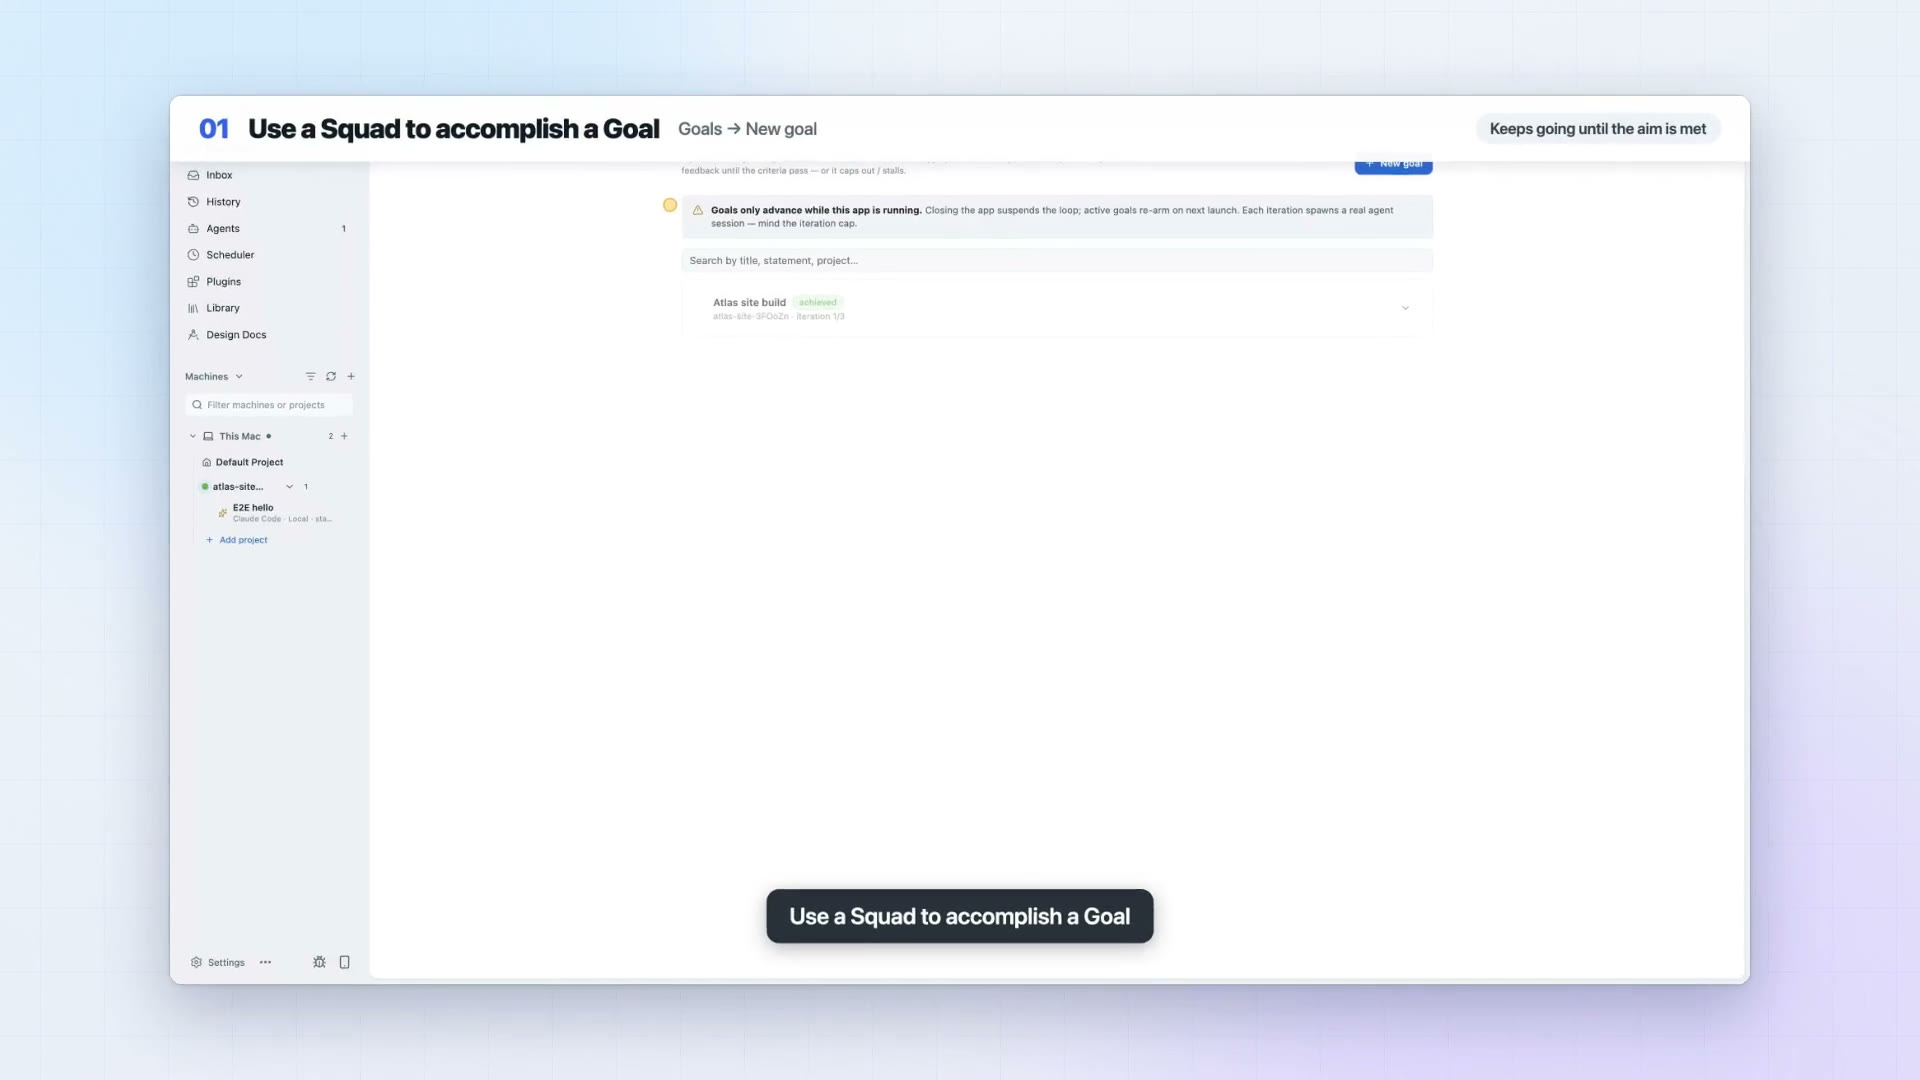
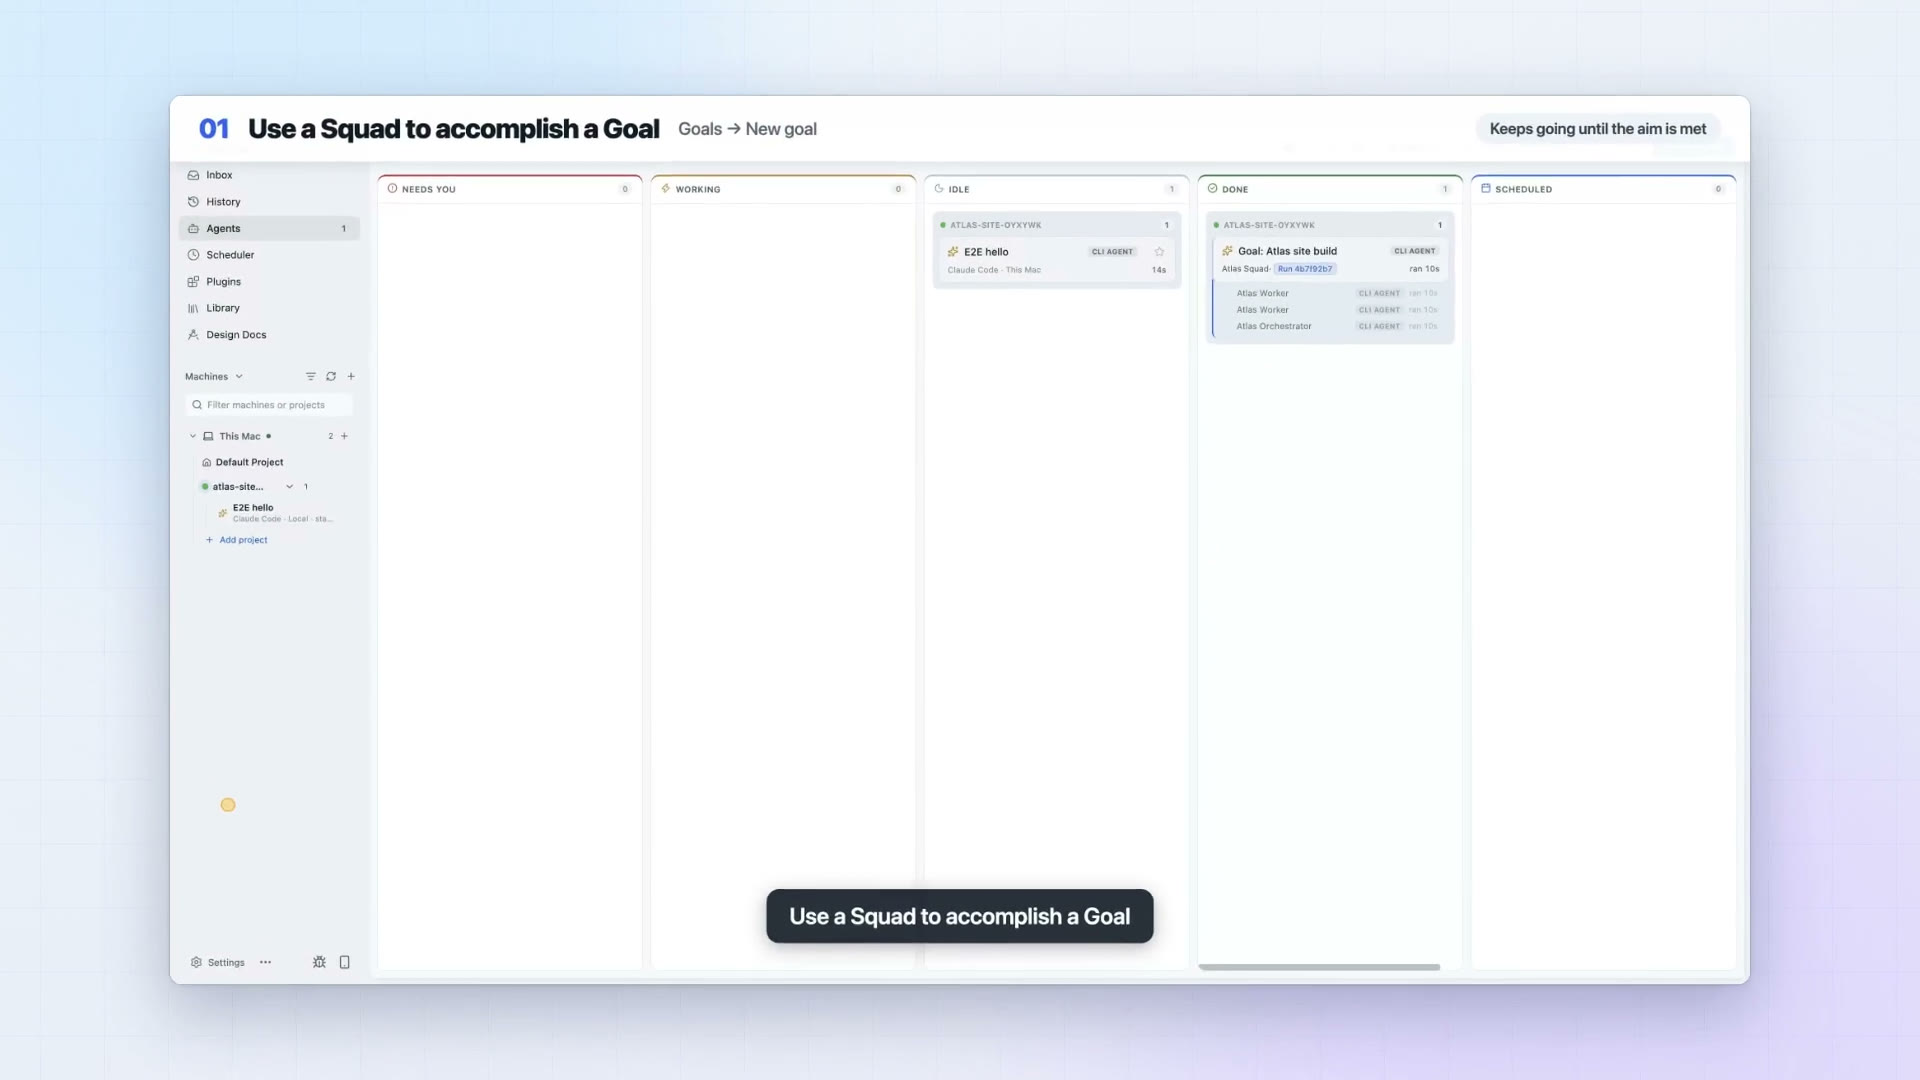
fix: address PR review (watchdog ordering, render/card hardening, dimension bounds, video 8 Goals enablement)

diff --git a/e2e/demo-squad-guide-8.spec.ts b/e2e/demo-squad-guide-8.spec.ts
@@ -76,12 +76,24 @@ test('demo: run a Goal as a Squad', async ({ app }) => {
     await page.evaluate((id) => window.cc.goals.setStatus(id, 'active'), seededId);
     await expect.poll(() => page.evaluate(async (id) => (await window.cc.goals.list()).find((g) => g.id === id)?.status, seededId), { timeout: 240_000, intervals: [2_000] }).toMatch(/achieved|exhausted|escalated/);
 
+    // Goals are off by default: switch them off here so the video can show turning them on.
+    await page.evaluate(() => window.cc.config.set({ goalsEnabled: false }));
+    await page.addStyleTag({ content: '.settings-panel { zoom: 1.3; }' });
+
     const demo = await createDemoVideo(page);
     await demo.flash();
 
     // --- 01 A Goal keeps going ---
     await demo.section({ number: 1, title: 'Use a Squad to accomplish a Goal', subtitle: 'Goals → New goal', hint: 'Keeps going until the aim is met' });
     await demo.say('goal');
+    await tap(page, page.getByRole('link', { name: 'Settings', exact: true }));
+    await tap(page, page.getByTestId('settings-nav-experimental'));
+    const goalsSetting = page.getByRole('switch', { name: 'Goals', exact: true });
+    await goalsSetting.evaluate((el) => el.scrollIntoView({ block: 'center', behavior: 'smooth' }));
+    await page.waitForTimeout(900);
+    await tap(page, goalsSetting);
+    await expect(goalsSetting).toHaveAttribute('aria-checked', 'true');
+    await page.waitForTimeout(1200);
     await go('/goals');
     await tap(page, page.getByRole('button', { name: 'New goal' }).first());
     const form = page.getByRole('dialog', { name: 'New goal' });

diff --git a/e2e/demo-squad-guide-5.spec.ts b/e2e/demo-squad-guide-5.spec.ts
@@ -35,7 +35,8 @@ const PLAN_MD = [
 
 // The agent's scripted reply; each prompt gets its own, written just before it is sent. A match is a phrase
 // only that request contains, so the Squad's later reports to the thread never replay it.
-const scriptDir = mkdtempSync(join(tmpdir(), 'zcc-demo-guide5-script-'));
+// Created only when recording: the spec module is also loaded (and skipped) during collection and in workers.
+const scriptDir = process.env.ZCC_E2E_RECORD_VIDEO ? mkdtempSync(join(tmpdir(), 'zcc-demo-guide5-script-')) : join(tmpdir(), 'zcc-demo-guide5-unused');
 const script = join(scriptDir, 'script.json');
 const reply = (match: string, steps: unknown[]) => writeFileSync(script, JSON.stringify({ match, steps }));
 
@@ -108,7 +109,8 @@ test('demo: start a Squad from a conversation', async ({ app }) => {
     await expect(page.getByTestId('model-reasoning-provider-acp-opencode')).toHaveAttribute('aria-selected', 'true');
     await page.keyboard.press('Escape');
     // Escape closes the popover; clicking the backdrop closes the launcher.
-    await page.mouse.click(1700, 900);
+    const viewport = await page.evaluate(() => ({ width: innerWidth, height: innerHeight }));
+    await page.mouse.click(viewport.width - 20, viewport.height - 20);
     await expect(setup).toBeHidden({ timeout: 10_000 });
     await page.evaluate((to) => { history.pushState({}, '', to); dispatchEvent(new PopStateEvent('popstate')); }, home);
     await page.getByTestId('nav-agents').click();

diff --git a/scripts/demo-video-core.test.ts b/scripts/demo-video-core.test.ts
@@ -107,9 +107,20 @@ describe('validateVideoConfig', () => {
     bad.opener = { headline: '', chips: ['a', ''], lines: [{ at: 4, text: 'x' }, { at: 2, text: 'y' }, { at: 20, text: 'z' }], duration: 9, revealAt: 12 };
     bad.closer = { headline: 'x', chips: [], duration: 0, line: 5 };
     const errors = validateVideoConfig(bad).join('\n');
-    for (const part of ['id must', 'title is required', 'even integers', 'fps must', 'opener.headline', 'opener.chips', 'time order', 'after opener.duration', 'revealAt', 'closer.duration', 'closer.line']) {
+    for (const part of ['id must', 'title is required', 'positive even integers', 'fps must', 'opener.headline', 'opener.chips', 'time order', 'after opener.duration', 'revealAt', 'closer.duration', 'closer.line']) {
       expect(errors).toContain(part);
     }
+  });
+  it('requires positive even dimensions within the supported bounds', () => {
+    const check = (width: number, height: number) => validateVideoConfig({ ...valid(), width, height }).some((e) => e.includes('positive even integers'));
+    expect(check(0, 0)).toBe(true);
+    expect(check(-1920, -1080)).toBe(true);
+    expect(check(1920, 0)).toBe(true);
+    expect(check(7682, 1080)).toBe(true);
+    expect(check(1920, 4322)).toBe(true);
+    expect(check(1921, 1080)).toBe(true);
+    expect(check(7680, 4320)).toBe(false);
+    expect(check(2, 2)).toBe(false);
   });
   it('requires an opener and well-formed line list', () => {
     const noOpener: any = valid();

diff --git a/apps/server/src/plugins/plugin-service.failure.test.ts b/apps/server/src/plugins/plugin-service.failure.test.ts
@@ -87,6 +87,20 @@ describe('plugin service responsiveness failures', () => {
     vi.useRealTimers();
   });
 
+  it('keeps a watchdog-stalled plugin required and logs no "unavailable" warning while its retry is pending', async () => {
+    vi.useFakeTimers();
+    const warn = vi.spyOn(console, 'warn').mockImplementation(() => undefined);
+    const { service, plugin } = fixture();
+    const row = await service.install(plugin);
+    state.runtimes[0].options.onFailure(Error('Plugin event loop stopped responding'));
+    await vi.waitFor(() => expect(service.get(row.id)?.status).toBe('degraded'));
+    expect(warn.mock.calls.filter((c) => String(c[0]).includes('failed to activate'))).toHaveLength(0);
+    await vi.advanceTimersByTimeAsync(1_000);
+    await vi.waitFor(() => expect(service.get(row.id)?.status).toBe('running'));
+    expect(warn.mock.calls.filter((c) => String(c[0]).includes('failed to activate'))).toHaveLength(0);
+    vi.useRealTimers();
+  });
+
   it('bounds failed watchdog recovery to three attempts with backoff and allows a manual retry', async () => {
     vi.useFakeTimers();
     const changed = vi.fn();

diff --git a/apps/server/src/plugins/plugin-service.ts b/apps/server/src/plugins/plugin-service.ts
@@ -1667,12 +1667,10 @@ export function createPluginService(opts: PluginServiceOptions): PluginService {
               const degraded = withToolPolicy({ ...row, status: 'degraded' as const, statusDetail: error.message }, declared);
               live.set(row.id, { row: degraded, handle: null, rpc: new Map() });
               await store.upsert(degraded);
+              // Schedule the retry before publishing, so the row is never advertised as terminal while a retry is pending.
+              if (error.message === WATCHDOG_FAILURE_MESSAGE && isCurrent(row.id, epoch)) scheduleWatchdogRecovery(row.id);
               refreshToolPolicyInventory();
               if (!isCurrent(row.id, epoch)) return;
-              if (error.message === WATCHDOG_FAILURE_MESSAGE) {
-                scheduleWatchdogRecovery(row.id);
-                refreshToolPolicyInventory();
-              }
               await emitCapabilities();
               if (!isCurrent(row.id, epoch)) return;
               await emitAppsChanged();

diff --git a/e2e/native-tool-policy-degraded-plugin.spec.ts b/e2e/native-tool-policy-degraded-plugin.spec.ts
@@ -22,6 +22,11 @@ createInterface({input:process.stdin}).on('line', () => {
   n += 1;
   const input = {hook_event_name:'PreToolUse', prompt_id:'prompt-probe', tool_use_id:'call-' + n, tool_name:'Write', tool_input:{path:'marker.txt'}};
   const result = spawnSync('/bin/sh', ['-c', commands[0]], { input:JSON.stringify(input), timeout:6000, stdio:['pipe','pipe','pipe'] });
+  if (result.error || result.signal || result.status !== 0) {
+    writeFileSync('write-result.json', JSON.stringify({decision: 'hook-failed', reason: String(result.error || result.signal || ('exit ' + result.status)) + ' ' + result.stderr.toString().slice(0, 500)}));
+    console.log('POLICY_RESULT');
+    return;
+  }
   const output = result.stdout.toString().trim();
   const parsed = output ? JSON.parse(output).hookSpecificOutput : {};
   writeFileSync('write-result.json', JSON.stringify({decision: parsed.permissionDecision ?? 'no-decision', reason: parsed.permissionDecisionReason ?? ''}));

diff --git a/e2e/sdk/demo-video-core.ts b/e2e/sdk/demo-video-core.ts
@@ -104,7 +104,7 @@ export function validateVideoConfig(raw: unknown): string[] {
   const c = raw as Record<string, any>;
   if (!isText(c.id) || !/^[a-z0-9][a-z0-9-]*$/.test(c.id)) errors.push('id must be a lowercase slug');
   if (!isText(c.title)) errors.push('title is required');
-  if (!Number.isInteger(c.width) || !Number.isInteger(c.height) || c.width % 2 || c.height % 2) errors.push('width/height must be even integers');
+  if (![c.width, c.height].every((n) => Number.isInteger(n) && n > 0 && n % 2 === 0) || c.width > 7680 || c.height > 4320) errors.push('width/height must be positive even integers within 7680x4320');
   if (![30, 60].includes(c.fps)) errors.push('fps must be 30 or 60');
   const card = (name: string, v: any, required: boolean) => {
     if (!v) { if (required) errors.push(`${name} is required`); return false; }

diff --git a/e2e/demo-squad-guide-7.spec.ts b/e2e/demo-squad-guide-7.spec.ts
@@ -54,7 +54,6 @@ test('demo: schedule a Squad', async ({ app }) => {
       document.body.appendChild(dot);
       addEventListener('mousemove', (e) => { dot.style.left = `${e.clientX}px`; dot.style.top = `${e.clientY}px`; }, true);
     });
-    const go = (to: string) => page.evaluate((path) => { history.pushState({}, '', path); dispatchEvent(new PopStateEvent('popstate')); }, to);
 
     // Seed (trimmed away): register the project via the shared owner launch, close the owner, name the Squad.
     await launchJobTeamCliOwner(ctx, { workerQuantity: 2, prompt: 'E2E hello', orchestratorExtra: { deniedTools: ['Write', 'Edit'] } });

diff --git a/e2e/demo-squad-guide-3.spec.ts b/e2e/demo-squad-guide-3.spec.ts
@@ -3,7 +3,7 @@
  * See docs/media/squad-guide-README.md for the record command.
  *
  * No model is called: the Squad's agents are the deterministic fake coordinator
- * (e2e/sdk/harness.ts). The recording shows the launch only; the run itself is video 3.
+ * (e2e/sdk/harness.ts). The recording opens on a run that is waiting on a question, answers it from the Inbox, and reads the result in Squad details.
  */
 import { test, expect } from './fixtures/app.js';
 import { createJobTeamContext, launchJobTeamCliOwner, teardownJobTeam } from './sdk/job-team-scenario.js';

diff --git a/docs/media/squad-guide-tools/card.html b/docs/media/squad-guide-tools/card.html
@@ -75,7 +75,7 @@ const VO = MODE === 'closer'
   : (CARD.lines || []).map((l) => [l.at, 3, l.text]);
 (params.get('vo') || '').split(',').filter(Boolean).forEach((d, i) => { if (VO[i]) VO[i][1] = Number(d); });
 const DURATION = CARD.duration || 8;
-const REVEAL = MODE === 'closer' ? 0 : (CARD.revealAt || DURATION - 3);
+const REVEAL = MODE === 'closer' ? 0 : (CARD.revealAt ?? DURATION - 3);
 window.TIMING = { VO, DURATION, MODE };
 
 // Headline: last word gradient-highlighted.

diff --git a/e2e/demo-squad-guide-4.spec.ts b/e2e/demo-squad-guide-4.spec.ts
@@ -37,7 +37,6 @@ test('demo: pick the right Squad', async ({ app }) => {
     document.body.appendChild(dot);
     addEventListener('mousemove', (e) => { dot.style.left = `${e.clientX}px`; dot.style.top = `${e.clientY}px`; }, true);
   });
-  const beat = (ms: number) => page.waitForTimeout(ms);
 
   await page.getByRole('link', { name: 'Settings', exact: true }).click();
   await page.getByTestId('settings-nav-squads').click();

diff --git a/docs/media/squad-guide-tools/render.py b/docs/media/squad-guide-tools/render.py
@@ -25,15 +25,15 @@ TAIL = 0.6  # silence after the last spoken section line before the closer
 
 
 def validate(cfg, lines):
-    """Return a list of problems with video.json and narration.json (mirrors e2e/sdk/demo-video-core.ts)."""
+    """Return a list of problems with video.json and narration.json (the structural checks of e2e/sdk/demo-video-core.ts; the narration entries are checked only here, and chips only there)."""
     errors = []
     if not re.fullmatch(r'[a-z0-9][a-z0-9-]*', str(cfg.get('id', ''))):
         errors.append('id must be a lowercase slug')
     if not str(cfg.get('title', '')).strip():
         errors.append('title is required')
     w, h = cfg.get('width'), cfg.get('height')
-    if not (isinstance(w, int) and isinstance(h, int) and w % 2 == 0 and h % 2 == 0):
-        errors.append('width/height must be even integers')
+    if not (isinstance(w, int) and isinstance(h, int) and 0 < w <= 7680 and 0 < h <= 4320 and w % 2 == 0 and h % 2 == 0):
+        errors.append('width/height must be positive even integers within 7680x4320')
     if cfg.get('fps') not in (30, 60):
         errors.append('fps must be 30 or 60')
     opener = cfg.get('opener')
@@ -44,14 +44,18 @@ def validate(cfg, lines):
             errors.append('opener.headline is required')
         if not opener.get('duration', 0) > 0:
             errors.append('opener.duration must be positive')
-        ats = [l.get('at', -1) for l in opener.get('lines', [])]
-        if ats != sorted(set(ats)) or any(a < 0 for a in ats):
-            errors.append('opener.lines must be in strict time order')
+        op_lines = opener.get('lines')
+        if not isinstance(op_lines, list) or not op_lines or not all(isinstance(l, dict) and str(l.get('text', '')).strip() and isinstance(l.get('at'), (int, float)) for l in op_lines):
+            errors.append('opener.lines must be a non-empty list of {at, text}')
+        else:
+            ats = [l['at'] for l in op_lines]
+            if ats != sorted(set(ats)) or any(a < 0 for a in ats) or any(a >= opener.get('duration', 0) for a in ats):
+                errors.append('opener.lines must be in strict time order, inside opener.duration')
         if not 0 <= opener.get('revealAt', -1) < opener.get('duration', 0):
             errors.append('opener.revealAt must be inside opener.duration')
     closer = cfg.get('closer')
-    if closer is not None and not closer.get('duration', 0) > 0:
-        errors.append('closer.duration must be positive')
+    if closer is not None and not (isinstance(closer, dict) and closer.get('duration', 0) > 0):
+        errors.append('closer must be an object with a positive duration')
     if not lines:
         errors.append('narration.json is empty')
     for i, entry in enumerate(lines):
@@ -102,7 +106,7 @@ def clip(audio_dir, line):
 def audio(folder, cfg, lines):
     audio_dir = folder / 'audio-neural'
     audio_dir.mkdir(exist_ok=True)
-    extra = [l['text'] for l in cfg['opener']['lines']] + ([cfg['closer']['line']] if cfg.get('closer', {}).get('line') else [])
+    extra = [l['text'] for l in cfg['opener']['lines']] + ([cfg['closer']['line']] if (cfg.get('closer') or {}).get('line') else [])
     for line in extra:
         print(f' card  {duration(clip(audio_dir, line)):5.2f}s  {line}')
     durations = []
@@ -153,9 +157,13 @@ def music(folder, cfg, total, lead):
 def mix(folder, cfg, lines, rec_dir, fps):
     audio_dir, w, h = folder / 'audio-neural', cfg['width'], cfg['height']
     rec_dir = Path(rec_dir)
-    video = next(rec_dir.glob('*.webm'))
+    webms = sorted(rec_dir.glob('*.webm'))
+    if len(webms) != 1:
+        raise SystemExit(f'{rec_dir}: expected exactly one .webm recording, found {len(webms)}; clear the directory and record again')
+    video = webms[0]
     timeline = json.loads((rec_dir / 'timeline.json').read_text())
-    assert [t['text'] for t in timeline] == [e['caption'] for e in lines], 'timeline captions differ from narration.json'
+    if [t['text'] for t in timeline] != [e['caption'] for e in lines]:
+        raise SystemExit('timeline captions differ from narration.json; record again')
     durations = json.loads((audio_dir / 'durations.json').read_text())
     start = flash_end(video)
     opener_cfg, closer_cfg = cfg['opener'], cfg.get('closer')
@@ -202,7 +210,7 @@ def mix(folder, cfg, lines, rec_dir, fps):
         '[0:a]aformat=channel_layouts=stereo,asplit[v][key];[1:a]volume=0.55[m];[m][key]sidechaincompress=threshold=0.03:ratio=6:attack=20:release=400[duck];'
         '[v][duck]amix=inputs=2:duration=first:normalize=0,loudnorm=I=-16:TP=-1.5:LRA=9[a]', '-map', '[a]', '-ar', str(RATE), str(audio_dir / 'mix.wav'))
 
-    end = min(total, cues[-1][1] + 0.9)
+    end = total if closer_cfg and not closer_cfg.get('line') else min(total, cues[-1][1] + 0.9)  # a silent closer keeps its configured duration
     fade = f'fade=t=out:st={end - 0.6:.3f}:d=0.6'
     scale = f'scale={w}:{h}:force_original_aspect_ratio=decrease,pad={w}:{h}:(ow-iw)/2:(oh-ih)/2,fps={fps},format=yuv420p,settb=AVTB,setpts=PTS-STARTPTS'
     graph = f'[1:v]{scale}[rec];[0:v]settb=AVTB[card];[card][rec]xfade=transition=fade:duration={XFADE}:offset={lead}[v1];'
@@ -210,13 +218,11 @@ def mix(folder, cfg, lines, rec_dir, fps):
     if closer:
         graph += f'[3:v]settb=AVTB[end];[v1][end]xfade=transition=fade:duration={XFADE}:offset={closer_at:.3f},{fade}[v]'
         inputs_tail = ['-i', str(audio_dir / 'mix.wav'), '-i', str(closer)]
-        audio_idx = '2:a'
     else:
         graph += f'[v1]{fade}[v]'
         inputs_tail = ['-i', str(audio_dir / 'mix.wav')]
-        audio_idx = '2:a'
     out = folder / f'{cfg["id"]}.mp4'
-    run('ffmpeg', '-y', '-hide_banner', '-loglevel', 'error', *inputs, *inputs_tail, '-filter_complex', graph, '-map', '[v]', '-map', audio_idx,
+    run('ffmpeg', '-y', '-hide_banner', '-loglevel', 'error', *inputs, *inputs_tail, '-filter_complex', graph, '-map', '[v]', '-map', '2:a',
         '-t', f'{end:.3f}', '-af', f'a{fade}', '-r', str(fps), '-c:v', 'libx264', '-preset', 'slow', '-crf', '20', '-c:a', 'aac', '-b:a', '160k',
         '-movflags', '+faststart', str(out))
     run('ffmpeg', '-y', '-hide_banner', '-loglevel', 'error', '-ss', str(cfg.get('posterAt', max(opener_cfg['duration'] - 1.0, 0))), '-i', str(out), '-frames:v', '1', '-q:v', '3', str(folder / 'poster.jpg'))
